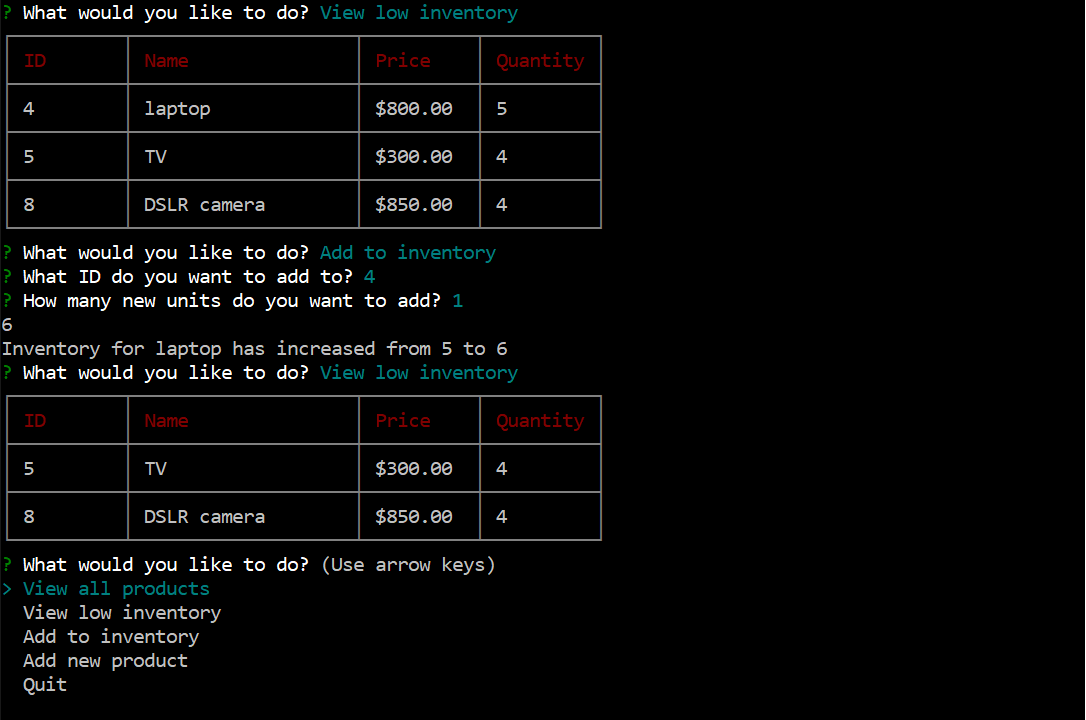
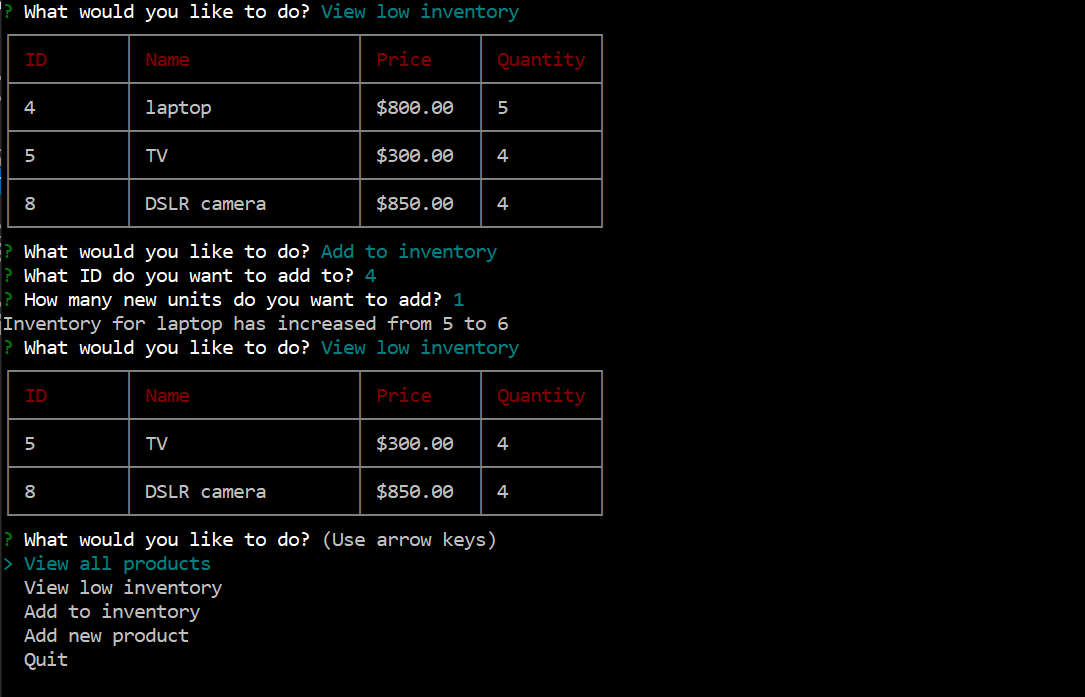
edit readme, fixed department choices to reflect the third challenge of the app

Changed region(s): [[0.0, 0.0603, 0.5779, 0.9641], [0.0, 0.0, 0.4866, 0.0301]]

diff --git a/bamazonManager.js b/bamazonManager.js
@@ -81,7 +81,6 @@ function addInventory() {
             connection.query("SELECT * FROM products WHERE ?", { item_id: answer.id }, function (err, res) {
 
                 let newStock = parseInt(answer.quantity) + res[0].stock_quantity;
-                console.log(newStock);
                 connection.query("UPDATE products SET stock_quantity = ? WHERE item_id = ?", [newStock, answer.id])
                 console.log(`Inventory for ${res[0].product_name} has increased from ${res[0].stock_quantity} to ${newStock}`);
                 askManager();
@@ -90,12 +89,21 @@ function addInventory() {
 }
 
 function addNewItem() {
+    var departmentArr = [];
+    connection.query("SELECT department_name FROM departments ORDER BY department_name ASC", function(err, res){
+        if (err) throw err;
+        res.forEach(function(item){
+            departmentArr.push(item.department_name);
+        })
+    })
     inquirer.prompt([
         {
             name: "product",
             message: "Product Name"
         },
         {
+            type: "list",
+            choices: departmentArr,
             name: "department",
             message: "Insert Department"
         },
